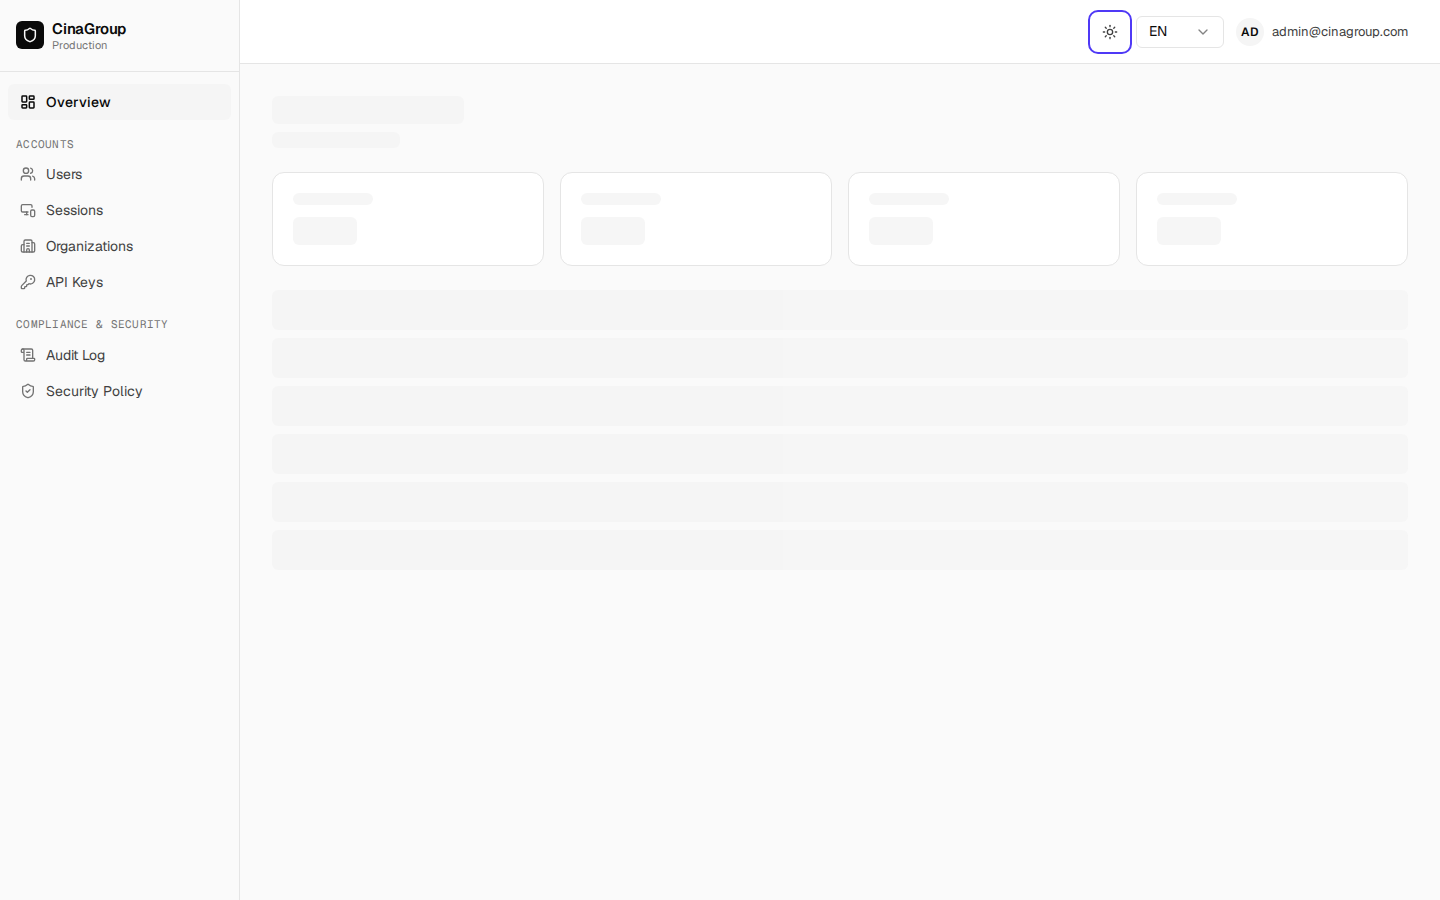
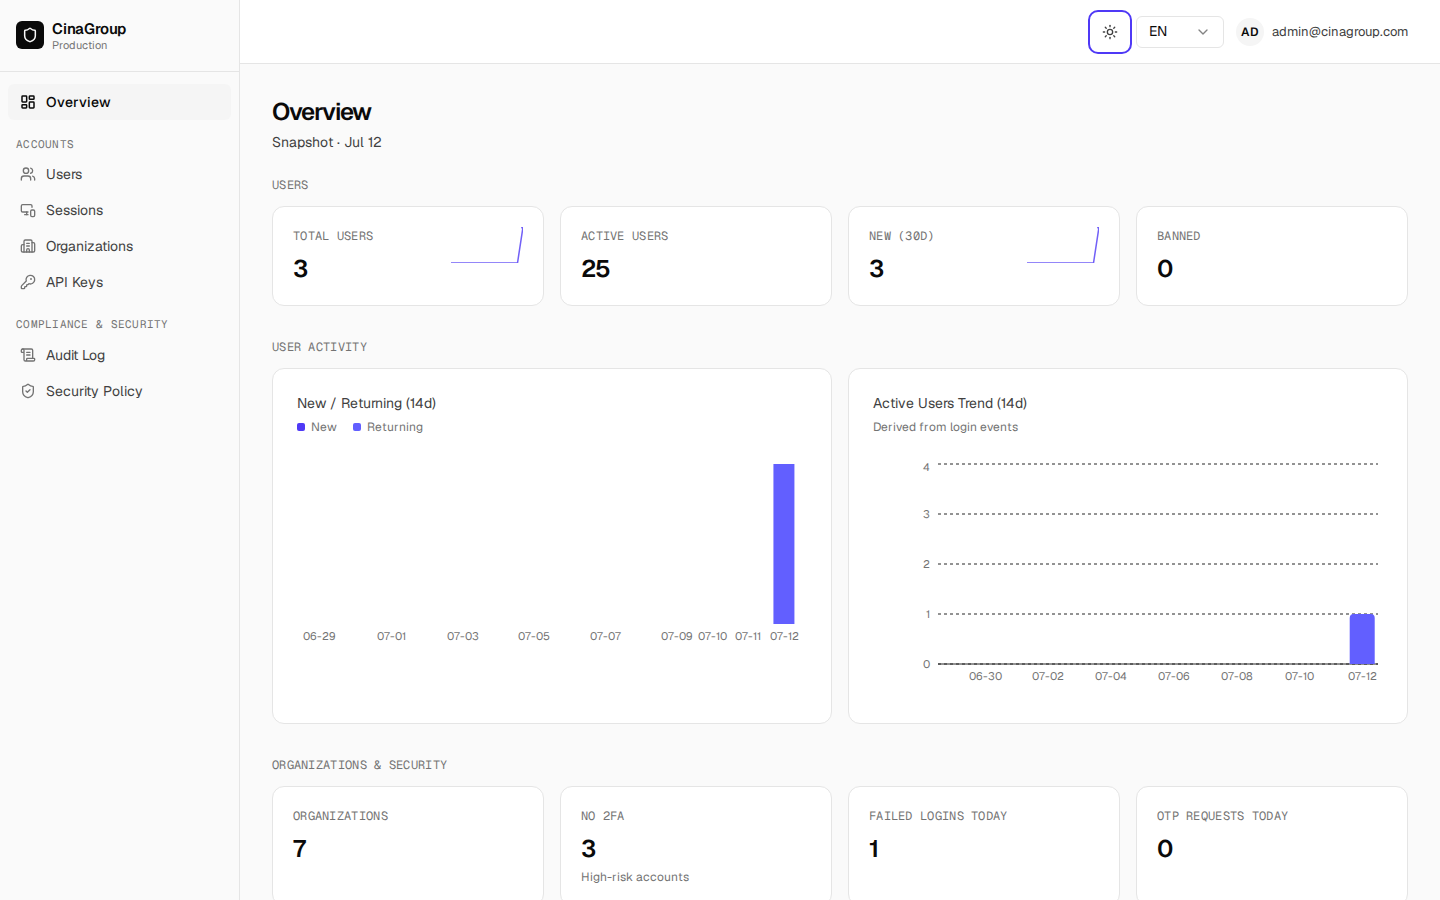
fix(i18n): eliminate last hardcoded Chinese in chart components
- cohort-bars: dataKey 新增/回流 → new/returning (neutral keys,
  labels come from the dashboard legend via t())
- channel-pie: 暂无数据 → No data
- active-users-chart: 近 N 天无登录数据 → English equivalent
- filter-bar: 搜索… → Search…

Production hardcoded Chinese count: 0 (excluding intentional
language labels like 中文/EN and language-gated pagination text).

diff --git a/src/components/charts/cohort-bars.tsx b/src/components/charts/cohort-bars.tsx
@@ -89,8 +89,8 @@ export function CohortBars({ days = 14 }: { days?: number }) {
 
 	const chartData = Array.from(byDay.entries()).map(([date, b]) => ({
 		date: date.slice(5), // MM-DD
-		新增: b.newUsers,
-		回流: b.returning,
+		new: b.newUsers,
+		returning: b.returning,
 	}));
 
 	const { v, themeKey } = useThemeTokens();
@@ -119,13 +119,13 @@ export function CohortBars({ days = 14 }: { days?: number }) {
 					}}
 				/>
 				<Bar
-					dataKey="新增"
+					dataKey="new"
 					stackId="cohort"
 					fill={c1}
 					radius={[0, 0, 0, 0]}
 				/>
 				<Bar
-					dataKey="回流"
+					dataKey="returning"
 					stackId="cohort"
 					fill={c2}
 					radius={[4, 4, 0, 0]}

diff --git a/src/components/charts/active-users-chart.tsx b/src/components/charts/active-users-chart.tsx
@@ -66,7 +66,7 @@ export function ActiveUsersChart({ days = 14 }: { days?: number }) {
 	if (!isFetching && chartData.every((d) => d.active === 0)) {
 		return (
 			<div className="flex h-[240px] items-center justify-center text-[14px] leading-5 text-mute">
-				近 {days} 天无登录数据
+				No login data in the last {days} days
 			</div>
 		);
 	}

diff --git a/src/components/charts/channel-pie.tsx b/src/components/charts/channel-pie.tsx
@@ -27,7 +27,7 @@ export function ChannelPie({
 	];
 
 	if (data.length === 0) {
-		return <div className="text-[14px] leading-5 text-mute">暂无数据</div>;
+		return <div className="text-[14px] leading-5 text-mute">No data</div>;
 	}
 
 	return (

diff --git a/src/components/data-table/filter-bar.tsx b/src/components/data-table/filter-bar.tsx
@@ -23,7 +23,7 @@ export interface FilterState {
 export function FilterBar({
 	fields,
 	onChange,
-	searchLabel = "搜索…",
+	searchLabel = "Search…",
 }: {
 	fields: { label: string; value: string }[];
 	onChange: (f: FilterState) => void;